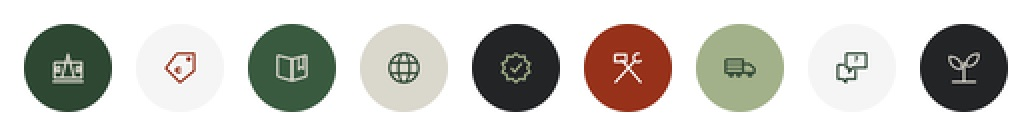
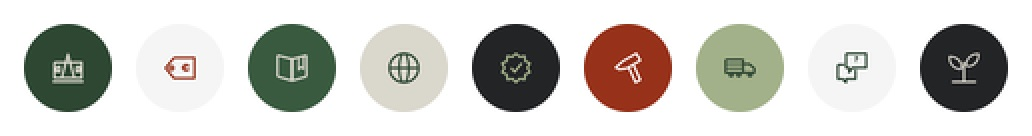
social: redraw the tag, the globe and the tool, and clear the stale set
Three of the nine were wrong and each was wrong for its own reason.

The tag was drawn on the diagonal, which leaves no horizontal field inside it,
so the euro sat in a corner against two sloping edges. Laid flat, the body is a
plain rectangle and the euro goes in the middle of it. Its hole was 42 px across
drawn with a 104 px pen, so the ring closed on itself and printed as a dot.

The globe had four strokes and two of them touched nothing: the latitude lines
ran 0.09 to 0.91 where the circle at that height is 0.974 wide, so both ended
short of the outline and floated inside it. The equator is the one line that can
run the full diameter and meet the circle exactly, so it replaces both.

The crossed spanner and hammer read as scissors with a flag on them — at this
pen weight the X of the two handles is the largest shape in the frame, so the
eye takes the X first and the tools second. One tool has no X. Getting to a
hammer took two more passes: a two-pronged claw closed into a beak, and a
stepped head with a tapered grip under its right-hand end is the silhouette of a
power drill, which is what it read as at both sizes. Upright was the problem —
drills are drawn level, hammers are drawn mid-swing. Turned 30 degrees, with the
claw back as a single blunt wedge.

Also removes 18 files left at the root of 11-highlights by two superseded runs,
eight of them still under their German names. The script has written only
[…]

Changed region(s): [[0.155, 0.3824, 0.2171, 0.6176], [0.5891, 0.3824, 0.6202, 0.6176], [0.3721, 0.4118, 0.4031, 0.5882]]

diff --git a/tools/social/build_highlight_covers.py b/tools/social/build_highlight_covers.py
@@ -112,16 +112,26 @@ def icon_house(d, x, y, s, c, w):
 
 
 def icon_tag(d, x, y, s, c, w, font=None):
-    """The tag, with a euro in it. A tag alone is a label; a tag with a currency
-    is a price."""
-    _line(d, [(x + s * 0.40, y + s * 0.04), (x + s * 0.96, y + s * 0.04),
-              (x + s * 0.96, y + s * 0.60), (x + s * 0.50, y + s * 0.98),
-              (x + s * 0.04, y + s * 0.52), (x + s * 0.40, y + s * 0.04)], c, w)
-    r = s * 0.075
-    cx, cy = x + s * 0.78, y + s * 0.22
+    """A tag lying flat, point to the left, with a euro set in the body.
+
+    It was drawn on the diagonal and the diagonal was the whole problem. A tag
+    tipped 45 degrees has no horizontal field inside it, so the euro had to go in
+    a corner, where it sat against two sloping edges and read as debris caught in
+    a pentagon. Laid flat, the body is a plain rectangle and the euro sits in the
+    middle of it at the size a euro wants to be \u2014 which is the only reason the
+    tag is here at all. A tag alone is a label; a tag with a currency is a price.
+    """
+    _line(d, [(x + s * 0.30, y + s * 0.16), (x + s * 0.98, y + s * 0.16),
+              (x + s * 0.98, y + s * 0.84), (x + s * 0.30, y + s * 0.84),
+              (x + s * 0.02, y + s * 0.50), (x + s * 0.30, y + s * 0.16)], c, w)
+    # The hole has to be wider than the stroke that draws it. At r = 0.055 s it was
+    # 42 px across drawn with a 104 px pen, so the ring closed on itself and came
+    # out as a dot \u2014 a tag with a dot punched in it is a tag with a smudge on it.
+    r = s * 0.10
+    cx, cy = x + s * 0.22, y + s * 0.50
     d.ellipse([cx - r, cy - r, cx + r, cy + r], outline=c, width=w)
     if font:
-        _glyph(d, x + s * 0.10, y + s * 0.24, s * 0.68, "\u20ac", c, font)
+        _glyph(d, x + s * 0.40, y + s * 0.20, s * 0.58, "\u20ac", c, font)
 
 
 def icon_book(d, x, y, s, c, w):
@@ -141,29 +151,25 @@ def icon_book(d, x, y, s, c, w):
               (x + s * 0.88, y + s * 0.18)], c, round(w * 0.8))
 
 
-def _spanner(d, x, y, s, c, w):
-    """An open-ended spanner: a shaft with a C at its head. Small enough to sit on
-    something else, which is where it is used twice in this set."""
-    _line(d, [(x + s * 0.16, y + s * 0.90), (x + s * 0.62, y + s * 0.38)], c, w)
-    r = s * 0.24
-    cx, cy = x + s * 0.74, y + s * 0.24
-    d.arc([cx - r, cy - r, cx + r, cy + r], 40, 300, fill=c, width=w)
-
-
 def icon_pin(d, x, y, s, c, w):
     """A globe, not a pin.
 
     A pin means one place and this highlight is five countries, so the pin was
     wrong before it was drawn badly. Filling its head with a ring of stars made it
-    worse: at 380 px the stars were dots, at 44 px a berry. Meridians are two
-    ellipses and two lines, they mean international everywhere, and they hold
-    their shape all the way down.
+    worse: at 380 px the stars were dots, at 44 px a berry.
+
+    Three strokes, and the third is the one that was missing. The previous globe
+    had two latitude lines and no equator, and both latitudes were drawn as chords
+    from 0.09 to 0.91 — but a circle at that height is 0.974 wide, so each line
+    stopped short of the outline at both ends and floated inside it. Four strokes,
+    two of them not touching anything. The equator is the one line that can run the
+    full diameter and meet the circle exactly, so it is the one that stays; the
+    wide meridian is narrowed to 0.32-0.68 so the pair no longer closes into an eye.
     """
-    m = s * 0.03
+    m = s * 0.02
     d.ellipse([x + m, y + m, x + s - m, y + s - m], outline=c, width=w)
-    d.ellipse([x + s * 0.30, y + m, x + s * 0.70, y + s - m], outline=c, width=w)
-    _line(d, [(x + s * 0.09, y + s * 0.34), (x + s * 0.91, y + s * 0.34)], c, w)
-    _line(d, [(x + s * 0.09, y + s * 0.66), (x + s * 0.91, y + s * 0.66)], c, w)
+    d.ellipse([x + s * 0.32, y + m, x + s * 0.68, y + s - m], outline=c, width=w)
+    _line(d, [(x + m, y + s * 0.50), (x + s - m, y + s * 0.50)], c, w)
 
 
 def icon_gear(d, x, y, s, c, w):
@@ -181,26 +187,49 @@ def icon_gear(d, x, y, s, c, w):
               (cx + s * 0.18, cy - s * 0.15)], c, w)
 
 
-def icon_hand_tool(d, x, y, s, c, w):
-    """A spanner crossed with a hammer.
+def _rot(pts, deg, cx=0.5, cy=0.5):
+    """Turn a path given in 0..1 icon space about its centre.
 
-    A hand gripping a tool was the reference and it does not survive this size:
-    fingers at 44 px are a scribble, and at 380 they were a scribble with more
-    pixels in it. Two crossed tools is the older sign for the same thing and it is
-    made of straight lines, which is what this stroke weight is good at.
-
-    The handle runs into the head rather than up to it. Ending it at the edge left
-    a hairline of ground between the two and the head read as a separate block
-    floating beside a stick.
+    Coordinates may leave the unit box once turned. That is safe here: every icon
+    is drawn onto a padded transparent layer, measured by the bounding box of its
+    ink and normalised from that, so a shape that overruns its nominal box is
+    sized and centred by what it actually covers rather than by what it declared.
     """
-    _line(d, [(x + s * 0.10, y + s * 0.92), (x + s * 0.70, y + s * 0.26)], c, w)
-    r = s * 0.16
-    cx, cy = x + s * 0.80, y + s * 0.16
-    d.arc([cx - r, cy - r, cx + r, cy + r], 35, 295, fill=c, width=w)
-    _line(d, [(x + s * 0.90, y + s * 0.92), (x + s * 0.30, y + s * 0.22)], c, w)
-    _line(d, [(x + s * 0.10, y + s * 0.06), (x + s * 0.44, y + s * 0.06),
-              (x + s * 0.44, y + s * 0.28), (x + s * 0.10, y + s * 0.28),
-              (x + s * 0.10, y + s * 0.06)], c, w)
+    import math
+    a = math.radians(deg)
+    ca, sa = math.cos(a), math.sin(a)
+    return [((px - cx) * ca - (py - cy) * sa + cx,
+             (px - cx) * sa + (py - cy) * ca + cy) for px, py in pts]
+
+
+def icon_hammer(d, x, y, s, c, w):
+    """One claw hammer, in outline like the rest of the set.
+
+    Crossed tools were here and they read as scissors with a flag on them. Two
+    objects at this stroke weight is one object too many: the X of the two handles
+    is the biggest shape in the frame, so the eye reads the X first and the tools
+    second, and the two heads — a rectangle and an open arc — end up as debris at
+    the top corners. The arc in particular came off as a stray letter C.
+
+    A single tool has no X to read. The claw went through two versions before this
+    one. Drawn as a two-pronged notch off the left end it needed four vertices
+    inside a fifth of the frame and they closed into a beak at this pen weight.
+    Dropped entirely in favour of a stepped head — thin pein, deep face — it got
+    worse: a horizontal block with a tapered grip hanging off the right of it is
+    the silhouette of a power drill, and that is what it read as, on both sizes.
+
+    Upright is the problem. Every drill is drawn level and every hammer worth
+    recognising is drawn mid-swing, so the tilt is doing more work here than any
+    detail in the head. Turned 30 degrees the drill reading goes, and the claw can
+    come back as a single blunt wedge — two vertices instead of four, which is
+    what this pen can hold.
+    """
+    head = _rot([(0.40, 0.06), (0.98, 0.06), (0.98, 0.36), (0.40, 0.36),
+                 (0.14, 0.26), (0.06, 0.13), (0.40, 0.06)], -30)
+    grip = _rot([(0.48, 0.36), (0.68, 0.36), (0.62, 0.98), (0.42, 0.98),
+                 (0.48, 0.36)], -30)
+    for path in (head, grip):
+        _line(d, [(x + px * s, y + py * s) for px, py in path], c, w)
 
 
 def icon_truck(d, x, y, s, c, w):
@@ -262,7 +291,7 @@ COVERS = [
     dict(slug="models", label="MODELS", icon=icon_house, glyph=None,
          ground=g.MOSS_DEEP, ink=g.CREAM, link="modunera.com/en/models/",
          note="Eight models, MD 1 to MD 8"),
-    dict(slug="prices", label="PRICES", icon=icon_tag, glyph=0.30,
+    dict(slug="prices", label="PRICES", icon=icon_tag, glyph=0.36,
          ground=g.PAPER, ink=g.ROOF, link="modunera.com/en/price-comparison/",
          note="Price comparison across the five markets"),
     dict(slug="guides", label="GUIDES", icon=icon_book, glyph=None,
@@ -274,7 +303,7 @@ COVERS = [
     dict(slug="quality", label="QUALITY", icon=icon_gear, glyph=None,
          ground=g.CHARCOAL, ink=g.SAGE, link="modunera.com/en/advantages/",
          note="What a tiny house does well, and what it does not solve"),
-    dict(slug="build", label="WHAT WE BUILD", icon=icon_hand_tool, glyph=None,
+    dict(slug="build", label="WHAT WE BUILD", icon=icon_hammer, glyph=None,
          ground=g.ROOF, ink=g.WHITE, link="modunera.com/en/services/",
          note="Modular, steel, bungalows and bespoke furniture"),
     dict(slug="production", label="PRODUCTION", icon=icon_truck, glyph=None,
